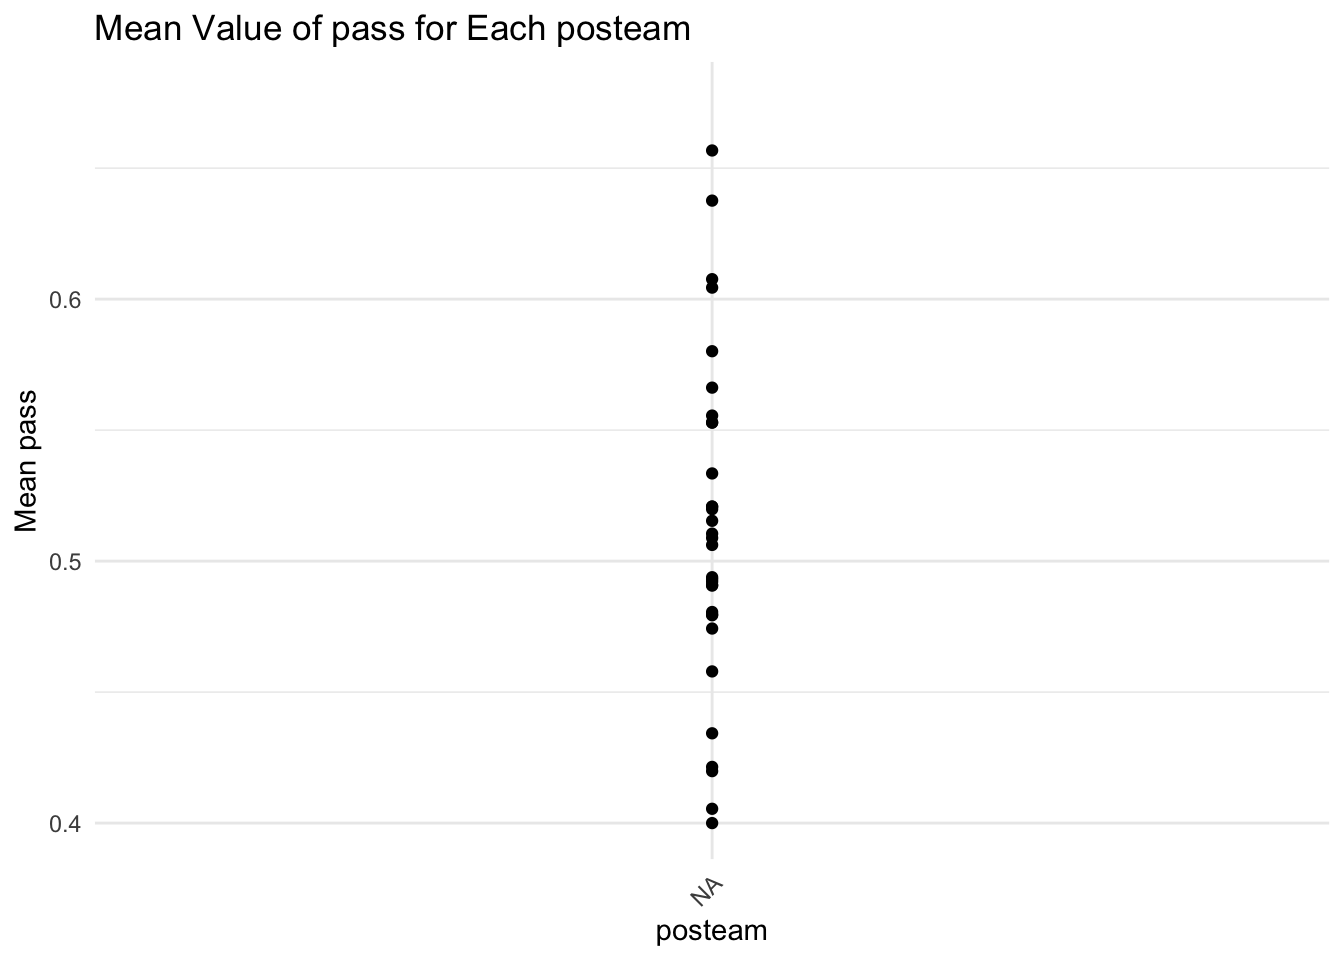
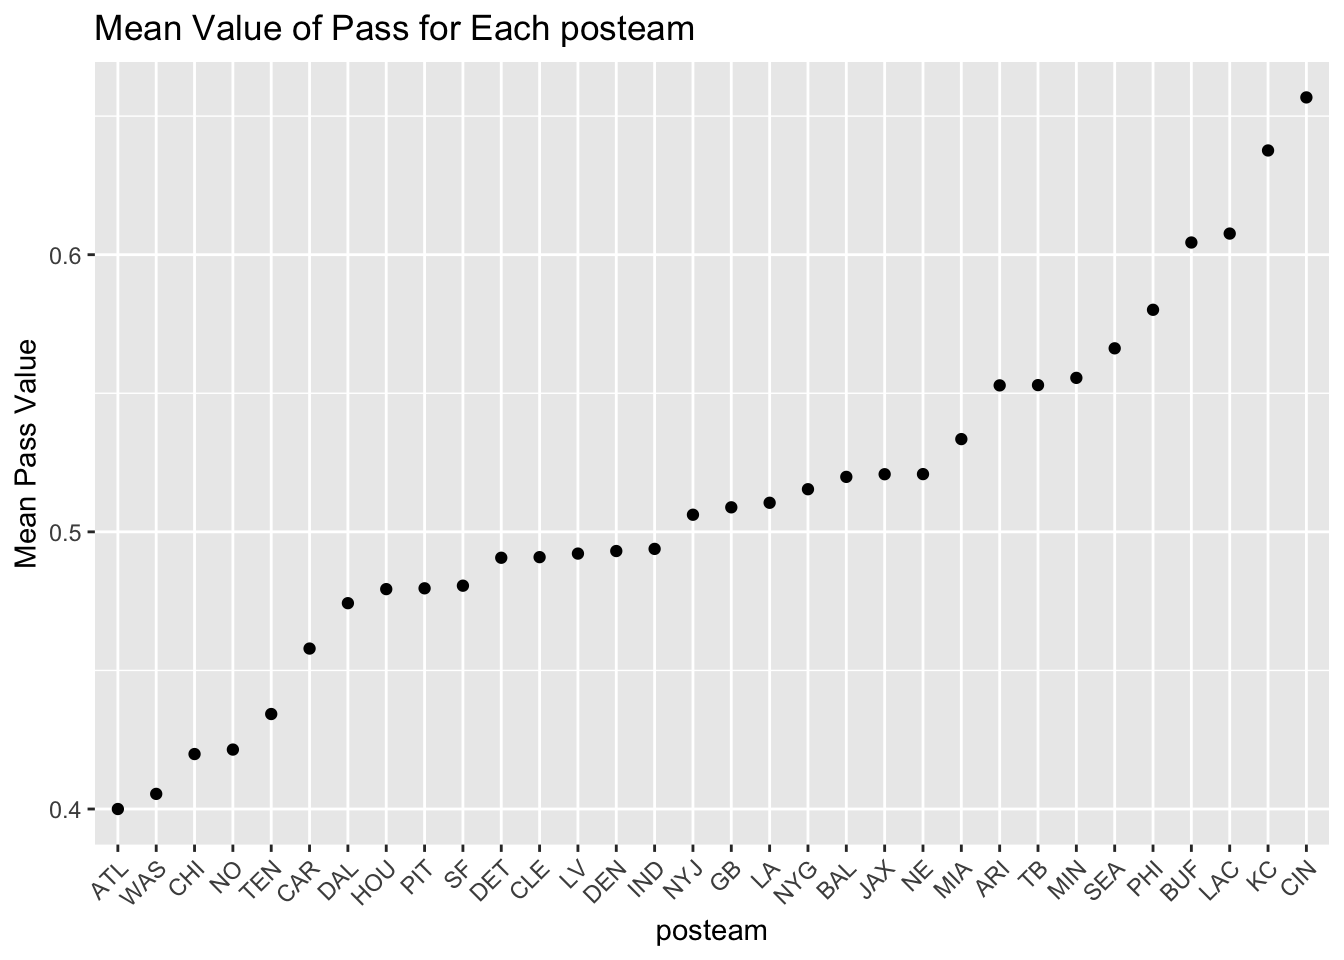
My Website

diff --git a/posts/NFL 2022 Data/index.html b/posts/NFL 2022 Data/index.html
@@ -268,25 +268,23 @@ Attaching package: 'dplyr'</code></pre>
 <p><em>Answer:</em></p>
 <div class="cell">
 <div class="sourceCode cell-code" id="cb8"><pre class="sourceCode r code-with-copy"><code class="sourceCode r"><span id="cb8-1"><a href="#cb8-1" aria-hidden="true" tabindex="-1"></a><span class="fu">library</span>(ggplot2)</span>
-<span id="cb8-2"><a href="#cb8-2" aria-hidden="true" tabindex="-1"></a><span class="co"># Load necessary libraries</span></span>
-<span id="cb8-3"><a href="#cb8-3" aria-hidden="true" tabindex="-1"></a><span class="fu">library</span>(ggplot2)</span>
-<span id="cb8-4"><a href="#cb8-4" aria-hidden="true" tabindex="-1"></a></span>
-<span id="cb8-5"><a href="#cb8-5" aria-hidden="true" tabindex="-1"></a></span>
-<span id="cb8-6"><a href="#cb8-6" aria-hidden="true" tabindex="-1"></a>summary_data <span class="ot">&lt;-</span> summary_data <span class="sc">%&gt;%</span></span>
-<span id="cb8-7"><a href="#cb8-7" aria-hidden="true" tabindex="-1"></a>  <span class="fu">mutate</span>(<span class="at">posteam =</span> <span class="fu">factor</span>(posteam, <span class="at">levels =</span> summary_data[<span class="fu">order</span>(mean_pass, <span class="at">decreasing =</span> <span class="cn">TRUE</span>), <span class="st">"posteam"</span>]))</span>
-<span id="cb8-8"><a href="#cb8-8" aria-hidden="true" tabindex="-1"></a></span>
-<span id="cb8-9"><a href="#cb8-9" aria-hidden="true" tabindex="-1"></a></span>
-<span id="cb8-10"><a href="#cb8-10" aria-hidden="true" tabindex="-1"></a><span class="fu">ggplot</span>(summary_data, <span class="fu">aes</span>(<span class="at">x =</span> posteam, <span class="at">y =</span> mean_pass, <span class="at">label =</span> posteam)) <span class="sc">+</span></span>
-<span id="cb8-11"><a href="#cb8-11" aria-hidden="true" tabindex="-1"></a>  <span class="fu">geom_point</span>() <span class="sc">+</span></span>
-<span id="cb8-12"><a href="#cb8-12" aria-hidden="true" tabindex="-1"></a>  <span class="fu">geom_text</span>(<span class="at">nudge_y =</span> <span class="fl">0.02</span>, <span class="at">size =</span> <span class="dv">3</span>, <span class="at">check_overlap =</span> <span class="cn">TRUE</span>) <span class="sc">+</span> </span>
-<span id="cb8-13"><a href="#cb8-13" aria-hidden="true" tabindex="-1"></a>  <span class="fu">labs</span>(<span class="at">title =</span> <span class="st">"Mean Value of pass for Each posteam"</span>,</span>
-<span id="cb8-14"><a href="#cb8-14" aria-hidden="true" tabindex="-1"></a>       <span class="at">x =</span> <span class="st">"posteam"</span>,</span>
-<span id="cb8-15"><a href="#cb8-15" aria-hidden="true" tabindex="-1"></a>       <span class="at">y =</span> <span class="st">"Mean pass"</span>) <span class="sc">+</span></span>
-<span id="cb8-16"><a href="#cb8-16" aria-hidden="true" tabindex="-1"></a>  <span class="fu">theme_minimal</span>() <span class="sc">+</span></span>
-<span id="cb8-17"><a href="#cb8-17" aria-hidden="true" tabindex="-1"></a>  <span class="fu">theme</span>(<span class="at">axis.text.x =</span> <span class="fu">element_text</span>(<span class="at">angle =</span> <span class="dv">45</span>, <span class="at">hjust =</span> <span class="dv">1</span>))</span></code><button title="Copy to Clipboard" class="code-copy-button"><i class="bi"></i></button></pre></div>
-<div class="cell-output cell-output-stderr">
-<pre><code>Warning: Removed 32 rows containing missing values (`geom_text()`).</code></pre>
-</div>
+<span id="cb8-2"><a href="#cb8-2" aria-hidden="true" tabindex="-1"></a>result <span class="ot">&lt;-</span> NFL2022_stuffs <span class="sc">%&gt;%</span></span>
+<span id="cb8-3"><a href="#cb8-3" aria-hidden="true" tabindex="-1"></a>  <span class="fu">filter</span>(</span>
+<span id="cb8-4"><a href="#cb8-4" aria-hidden="true" tabindex="-1"></a>    wp <span class="sc">&gt;</span> <span class="fl">0.2</span> <span class="sc">&amp;</span> wp <span class="sc">&lt;</span> <span class="fl">0.75</span>,</span>
+<span id="cb8-5"><a href="#cb8-5" aria-hidden="true" tabindex="-1"></a>    down <span class="sc">&lt;=</span> <span class="dv">2</span>,</span>
+<span id="cb8-6"><a href="#cb8-6" aria-hidden="true" tabindex="-1"></a>    half_seconds_remaining <span class="sc">&gt;</span> <span class="dv">120</span></span>
+<span id="cb8-7"><a href="#cb8-7" aria-hidden="true" tabindex="-1"></a>  ) <span class="sc">%&gt;%</span></span>
+<span id="cb8-8"><a href="#cb8-8" aria-hidden="true" tabindex="-1"></a>  <span class="fu">group_by</span>(posteam) <span class="sc">%&gt;%</span></span>
+<span id="cb8-9"><a href="#cb8-9" aria-hidden="true" tabindex="-1"></a>  <span class="fu">summarise</span>(<span class="at">mean_pass =</span> <span class="fu">mean</span>(pass, <span class="at">na.rm =</span> <span class="cn">TRUE</span>))</span>
+<span id="cb8-10"><a href="#cb8-10" aria-hidden="true" tabindex="-1"></a></span>
+<span id="cb8-11"><a href="#cb8-11" aria-hidden="true" tabindex="-1"></a>result<span class="sc">$</span>posteam <span class="ot">&lt;-</span> <span class="fu">factor</span>(result<span class="sc">$</span>posteam, <span class="at">levels =</span> result<span class="sc">$</span>posteam[<span class="fu">order</span>(result<span class="sc">$</span>mean_pass)])</span>
+<span id="cb8-12"><a href="#cb8-12" aria-hidden="true" tabindex="-1"></a></span>
+<span id="cb8-13"><a href="#cb8-13" aria-hidden="true" tabindex="-1"></a><span class="fu">ggplot</span>(result, <span class="fu">aes</span>(<span class="at">x =</span> posteam, <span class="at">y =</span> mean_pass)) <span class="sc">+</span></span>
+<span id="cb8-14"><a href="#cb8-14" aria-hidden="true" tabindex="-1"></a>  <span class="fu">geom_point</span>() <span class="sc">+</span></span>
+<span id="cb8-15"><a href="#cb8-15" aria-hidden="true" tabindex="-1"></a>  <span class="fu">labs</span>(<span class="at">title =</span> <span class="st">"Mean Value of Pass for Each posteam"</span>,</span>
+<span id="cb8-16"><a href="#cb8-16" aria-hidden="true" tabindex="-1"></a>       <span class="at">x =</span> <span class="st">"posteam"</span>,</span>
+<span id="cb8-17"><a href="#cb8-17" aria-hidden="true" tabindex="-1"></a>       <span class="at">y =</span> <span class="st">"Mean Pass Value"</span>) <span class="sc">+</span></span>
+<span id="cb8-18"><a href="#cb8-18" aria-hidden="true" tabindex="-1"></a>  <span class="fu">theme</span>(<span class="at">axis.text.x =</span> <span class="fu">element_text</span>(<span class="at">angle =</span> <span class="dv">45</span>, <span class="at">hjust =</span> <span class="dv">1</span>))</span></code><button title="Copy to Clipboard" class="code-copy-button"><i class="bi"></i></button></pre></div>
 <div class="cell-output-display">
 <p><img src="index_files/figure-html/unnamed-chunk-4-1.png" class="img-fluid" width="672"></p>
 </div>
@@ -306,14 +304,14 @@ Attaching package: 'dplyr'</code></pre>
 </ul>
 <p><em>Answer:</em></p>
 <div class="cell">
-<div class="sourceCode cell-code" id="cb10"><pre class="sourceCode r code-with-copy"><code class="sourceCode r"><span id="cb10-1"><a href="#cb10-1" aria-hidden="true" tabindex="-1"></a>NFL2022_epa <span class="ot">&lt;-</span> <span class="fu">read.csv</span>(<span class="st">'https://bcdanl.github.io/data/NFL2022_epa.csv'</span>)</span>
-<span id="cb10-2"><a href="#cb10-2" aria-hidden="true" tabindex="-1"></a></span>
-<span id="cb10-3"><a href="#cb10-3" aria-hidden="true" tabindex="-1"></a>NFL2022_stuffs_EPA <span class="ot">&lt;-</span> <span class="fu">left_join</span>(NFL2022_stuffs, NFL2022_epa, <span class="at">by =</span> <span class="fu">c</span>(<span class="st">"play_id"</span>, <span class="st">"game_id"</span>, <span class="st">"drive"</span>, <span class="st">"posteam"</span>))</span>
-<span id="cb10-4"><a href="#cb10-4" aria-hidden="true" tabindex="-1"></a></span>
-<span id="cb10-5"><a href="#cb10-5" aria-hidden="true" tabindex="-1"></a>NFL2022_stuffs_EPA <span class="ot">&lt;-</span> NFL2022_stuffs_EPA <span class="sc">%&gt;%</span></span>
-<span id="cb10-6"><a href="#cb10-6" aria-hidden="true" tabindex="-1"></a>  <span class="fu">filter</span>(<span class="sc">!</span><span class="fu">is.na</span>(passer))</span>
-<span id="cb10-7"><a href="#cb10-7" aria-hidden="true" tabindex="-1"></a></span>
-<span id="cb10-8"><a href="#cb10-8" aria-hidden="true" tabindex="-1"></a><span class="fu">head</span>(NFL2022_stuffs_EPA)</span></code><button title="Copy to Clipboard" class="code-copy-button"><i class="bi"></i></button></pre></div>
+<div class="sourceCode cell-code" id="cb9"><pre class="sourceCode r code-with-copy"><code class="sourceCode r"><span id="cb9-1"><a href="#cb9-1" aria-hidden="true" tabindex="-1"></a>NFL2022_epa <span class="ot">&lt;-</span> <span class="fu">read.csv</span>(<span class="st">'https://bcdanl.github.io/data/NFL2022_epa.csv'</span>)</span>
+<span id="cb9-2"><a href="#cb9-2" aria-hidden="true" tabindex="-1"></a></span>
+<span id="cb9-3"><a href="#cb9-3" aria-hidden="true" tabindex="-1"></a>NFL2022_stuffs_EPA <span class="ot">&lt;-</span> <span class="fu">left_join</span>(NFL2022_stuffs, NFL2022_epa, <span class="at">by =</span> <span class="fu">c</span>(<span class="st">"play_id"</span>, <span class="st">"game_id"</span>, <span class="st">"drive"</span>, <span class="st">"posteam"</span>))</span>
+<span id="cb9-4"><a href="#cb9-4" aria-hidden="true" tabindex="-1"></a></span>
+<span id="cb9-5"><a href="#cb9-5" aria-hidden="true" tabindex="-1"></a>NFL2022_stuffs_EPA <span class="ot">&lt;-</span> NFL2022_stuffs_EPA <span class="sc">%&gt;%</span></span>
+<span id="cb9-6"><a href="#cb9-6" aria-hidden="true" tabindex="-1"></a>  <span class="fu">filter</span>(<span class="sc">!</span><span class="fu">is.na</span>(passer))</span>
+<span id="cb9-7"><a href="#cb9-7" aria-hidden="true" tabindex="-1"></a></span>
+<span id="cb9-8"><a href="#cb9-8" aria-hidden="true" tabindex="-1"></a><span class="fu">head</span>(NFL2022_stuffs_EPA)</span></code><button title="Copy to Clipboard" class="code-copy-button"><i class="bi"></i></button></pre></div>
 <div class="cell-output cell-output-stdout">
 <pre><code>  play_id         game_id drive week posteam qtr down half_seconds_remaining
 1      89 2022_01_BAL_NYJ     1    1     NYJ   1    1                   1769
@@ -343,14 +341,14 @@ Attaching package: 'dplyr'</code></pre>
 </ol>
 <p><em>Answer:</em></p>
 <div class="cell">
-<div class="sourceCode cell-code" id="cb12"><pre class="sourceCode r code-with-copy"><code class="sourceCode r"><span id="cb12-1"><a href="#cb12-1" aria-hidden="true" tabindex="-1"></a><span class="fu">ggplot</span>(NFL2022_stuffs_EPA, <span class="fu">aes</span>(<span class="at">x =</span> week, <span class="at">y =</span> epa, <span class="at">color =</span> passer, <span class="at">linetype =</span> passer)) <span class="sc">+</span></span>
-<span id="cb12-2"><a href="#cb12-2" aria-hidden="true" tabindex="-1"></a>  <span class="fu">geom_line</span>(<span class="at">linewidth =</span> <span class="fl">1.2</span>) <span class="sc">+</span></span>
-<span id="cb12-3"><a href="#cb12-3" aria-hidden="true" tabindex="-1"></a>  <span class="fu">labs</span>(<span class="at">title =</span> <span class="st">"NFL Weekly Trend of Mean EPA for Passers"</span>,</span>
-<span id="cb12-4"><a href="#cb12-4" aria-hidden="true" tabindex="-1"></a>       <span class="at">x =</span> <span class="st">"Week"</span>,</span>
-<span id="cb12-5"><a href="#cb12-5" aria-hidden="true" tabindex="-1"></a>       <span class="at">y =</span> <span class="st">"Mean EPA"</span>) <span class="sc">+</span></span>
-<span id="cb12-6"><a href="#cb12-6" aria-hidden="true" tabindex="-1"></a>  <span class="fu">scale_color_manual</span>(<span class="at">values =</span> <span class="fu">c</span>(<span class="st">"J.Allen"</span> <span class="ot">=</span> <span class="st">"blue"</span>, <span class="st">"P.Mahomes"</span> <span class="ot">=</span> <span class="st">"red"</span>)) <span class="sc">+</span></span>
-<span id="cb12-7"><a href="#cb12-7" aria-hidden="true" tabindex="-1"></a>  <span class="fu">scale_linetype_manual</span>(<span class="at">values =</span> <span class="fu">c</span>(<span class="st">"J.Allen"</span> <span class="ot">=</span> <span class="st">"solid"</span>, <span class="st">"P.Mahomes"</span> <span class="ot">=</span> <span class="st">"dashed"</span>)) <span class="sc">+</span></span>
-<span id="cb12-8"><a href="#cb12-8" aria-hidden="true" tabindex="-1"></a>  <span class="fu">theme_minimal</span>()</span></code><button title="Copy to Clipboard" class="code-copy-button"><i class="bi"></i></button></pre></div>
+<div class="sourceCode cell-code" id="cb11"><pre class="sourceCode r code-with-copy"><code class="sourceCode r"><span id="cb11-1"><a href="#cb11-1" aria-hidden="true" tabindex="-1"></a><span class="fu">ggplot</span>(NFL2022_stuffs_EPA, <span class="fu">aes</span>(<span class="at">x =</span> week, <span class="at">y =</span> epa, <span class="at">color =</span> passer, <span class="at">linetype =</span> passer)) <span class="sc">+</span></span>
+<span id="cb11-2"><a href="#cb11-2" aria-hidden="true" tabindex="-1"></a>  <span class="fu">geom_line</span>(<span class="at">linewidth =</span> <span class="fl">1.2</span>) <span class="sc">+</span></span>
+<span id="cb11-3"><a href="#cb11-3" aria-hidden="true" tabindex="-1"></a>  <span class="fu">labs</span>(<span class="at">title =</span> <span class="st">"NFL Weekly Trend of Mean EPA for Passers"</span>,</span>
+<span id="cb11-4"><a href="#cb11-4" aria-hidden="true" tabindex="-1"></a>       <span class="at">x =</span> <span class="st">"Week"</span>,</span>
+<span id="cb11-5"><a href="#cb11-5" aria-hidden="true" tabindex="-1"></a>       <span class="at">y =</span> <span class="st">"Mean EPA"</span>) <span class="sc">+</span></span>
+<span id="cb11-6"><a href="#cb11-6" aria-hidden="true" tabindex="-1"></a>  <span class="fu">scale_color_manual</span>(<span class="at">values =</span> <span class="fu">c</span>(<span class="st">"J.Allen"</span> <span class="ot">=</span> <span class="st">"blue"</span>, <span class="st">"P.Mahomes"</span> <span class="ot">=</span> <span class="st">"red"</span>)) <span class="sc">+</span></span>
+<span id="cb11-7"><a href="#cb11-7" aria-hidden="true" tabindex="-1"></a>  <span class="fu">scale_linetype_manual</span>(<span class="at">values =</span> <span class="fu">c</span>(<span class="st">"J.Allen"</span> <span class="ot">=</span> <span class="st">"solid"</span>, <span class="st">"P.Mahomes"</span> <span class="ot">=</span> <span class="st">"dashed"</span>)) <span class="sc">+</span></span>
+<span id="cb11-8"><a href="#cb11-8" aria-hidden="true" tabindex="-1"></a>  <span class="fu">theme_minimal</span>()</span></code><button title="Copy to Clipboard" class="code-copy-button"><i class="bi"></i></button></pre></div>
 <div class="cell-output-display">
 <p><img src="index_files/figure-html/unnamed-chunk-6-1.png" class="img-fluid" width="672"></p>
 </div>
@@ -364,11 +362,11 @@ Attaching package: 'dplyr'</code></pre>
 </ul>
 <p><em>Answer:</em></p>
 <div class="cell">
-<div class="sourceCode cell-code" id="cb13"><pre class="sourceCode r code-with-copy"><code class="sourceCode r"><span id="cb13-1"><a href="#cb13-1" aria-hidden="true" tabindex="-1"></a>epa_difference <span class="ot">&lt;-</span> NFL2022_stuffs_EPA <span class="sc">%&gt;%</span></span>
-<span id="cb13-2"><a href="#cb13-2" aria-hidden="true" tabindex="-1"></a>  <span class="fu">group_by</span>(week) <span class="sc">%&gt;%</span></span>
-<span id="cb13-3"><a href="#cb13-3" aria-hidden="true" tabindex="-1"></a>  <span class="fu">summarise</span>(<span class="at">mean_epa_difference =</span> <span class="fu">mean</span>(epa[passer <span class="sc">==</span> <span class="st">"J.Allen"</span>]) <span class="sc">-</span> <span class="fu">mean</span>(epa[passer <span class="sc">==</span> <span class="st">"P.Mahomes"</span>]))</span>
-<span id="cb13-4"><a href="#cb13-4" aria-hidden="true" tabindex="-1"></a></span>
-<span id="cb13-5"><a href="#cb13-5" aria-hidden="true" tabindex="-1"></a><span class="fu">print</span>(epa_difference)</span></code><button title="Copy to Clipboard" class="code-copy-button"><i class="bi"></i></button></pre></div>
+<div class="sourceCode cell-code" id="cb12"><pre class="sourceCode r code-with-copy"><code class="sourceCode r"><span id="cb12-1"><a href="#cb12-1" aria-hidden="true" tabindex="-1"></a>epa_difference <span class="ot">&lt;-</span> NFL2022_stuffs_EPA <span class="sc">%&gt;%</span></span>
+<span id="cb12-2"><a href="#cb12-2" aria-hidden="true" tabindex="-1"></a>  <span class="fu">group_by</span>(week) <span class="sc">%&gt;%</span></span>
+<span id="cb12-3"><a href="#cb12-3" aria-hidden="true" tabindex="-1"></a>  <span class="fu">summarise</span>(<span class="at">mean_epa_difference =</span> <span class="fu">mean</span>(epa[passer <span class="sc">==</span> <span class="st">"J.Allen"</span>]) <span class="sc">-</span> <span class="fu">mean</span>(epa[passer <span class="sc">==</span> <span class="st">"P.Mahomes"</span>]))</span>
+<span id="cb12-4"><a href="#cb12-4" aria-hidden="true" tabindex="-1"></a></span>
+<span id="cb12-5"><a href="#cb12-5" aria-hidden="true" tabindex="-1"></a><span class="fu">print</span>(epa_difference)</span></code><button title="Copy to Clipboard" class="code-copy-button"><i class="bi"></i></button></pre></div>
 <div class="cell-output cell-output-stdout">
 <pre><code># A tibble: 22 × 2
     week mean_epa_difference
@@ -401,24 +399,24 @@ Attaching package: 'dplyr'</code></pre>
 </ul>
 <p><em>Answer:</em></p>
 <div class="cell">
-<div class="sourceCode cell-code" id="cb15"><pre class="sourceCode r code-with-copy"><code class="sourceCode r"><span id="cb15-1"><a href="#cb15-1" aria-hidden="true" tabindex="-1"></a>passer_summary <span class="ot">&lt;-</span> NFL2022_stuffs_EPA <span class="sc">%&gt;%</span></span>
-<span id="cb15-2"><a href="#cb15-2" aria-hidden="true" tabindex="-1"></a>  <span class="fu">group_by</span>(posteam, passer) <span class="sc">%&gt;%</span></span>
-<span id="cb15-3"><a href="#cb15-3" aria-hidden="true" tabindex="-1"></a>  <span class="fu">summarise</span>(</span>
-<span id="cb15-4"><a href="#cb15-4" aria-hidden="true" tabindex="-1"></a>    <span class="at">mean_epa =</span> <span class="fu">mean</span>(epa, <span class="at">na.rm =</span> <span class="cn">TRUE</span>),</span>
-<span id="cb15-5"><a href="#cb15-5" aria-hidden="true" tabindex="-1"></a>    <span class="at">n_pass =</span> <span class="fu">n</span>()</span>
-<span id="cb15-6"><a href="#cb15-6" aria-hidden="true" tabindex="-1"></a>  )</span></code><button title="Copy to Clipboard" class="code-copy-button"><i class="bi"></i></button></pre></div>
+<div class="sourceCode cell-code" id="cb14"><pre class="sourceCode r code-with-copy"><code class="sourceCode r"><span id="cb14-1"><a href="#cb14-1" aria-hidden="true" tabindex="-1"></a>passer_summary <span class="ot">&lt;-</span> NFL2022_stuffs_EPA <span class="sc">%&gt;%</span></span>
+<span id="cb14-2"><a href="#cb14-2" aria-hidden="true" tabindex="-1"></a>  <span class="fu">group_by</span>(posteam, passer) <span class="sc">%&gt;%</span></span>
+<span id="cb14-3"><a href="#cb14-3" aria-hidden="true" tabindex="-1"></a>  <span class="fu">summarise</span>(</span>
+<span id="cb14-4"><a href="#cb14-4" aria-hidden="true" tabindex="-1"></a>    <span class="at">mean_epa =</span> <span class="fu">mean</span>(epa, <span class="at">na.rm =</span> <span class="cn">TRUE</span>),</span>
+<span id="cb14-5"><a href="#cb14-5" aria-hidden="true" tabindex="-1"></a>    <span class="at">n_pass =</span> <span class="fu">n</span>()</span>
+<span id="cb14-6"><a href="#cb14-6" aria-hidden="true" tabindex="-1"></a>  )</span></code><button title="Copy to Clipboard" class="code-copy-button"><i class="bi"></i></button></pre></div>
 <div class="cell-output cell-output-stderr">
 <pre><code>`summarise()` has grouped output by 'posteam'. You can override using the
 `.groups` argument.</code></pre>
 </div>
-<div class="sourceCode cell-code" id="cb17"><pre class="sourceCode r code-with-copy"><code class="sourceCode r"><span id="cb17-1"><a href="#cb17-1" aria-hidden="true" tabindex="-1"></a>quantile_threshold <span class="ot">&lt;-</span> <span class="fu">quantile</span>(passer_summary<span class="sc">$</span>n_pass, <span class="fl">0.75</span>)</span>
-<span id="cb17-2"><a href="#cb17-2" aria-hidden="true" tabindex="-1"></a></span>
-<span id="cb17-3"><a href="#cb17-3" aria-hidden="true" tabindex="-1"></a>top_passers <span class="ot">&lt;-</span> passer_summary <span class="sc">%&gt;%</span></span>
-<span id="cb17-4"><a href="#cb17-4" aria-hidden="true" tabindex="-1"></a>  <span class="fu">filter</span>(n_pass <span class="sc">&gt;=</span> quantile_threshold) <span class="sc">%&gt;%</span></span>
-<span id="cb17-5"><a href="#cb17-5" aria-hidden="true" tabindex="-1"></a>  <span class="fu">arrange</span>(<span class="fu">desc</span>(mean_epa)) <span class="sc">%&gt;%</span></span>
-<span id="cb17-6"><a href="#cb17-6" aria-hidden="true" tabindex="-1"></a>  <span class="fu">slice_head</span>(<span class="at">n =</span> <span class="dv">10</span>)</span>
-<span id="cb17-7"><a href="#cb17-7" aria-hidden="true" tabindex="-1"></a></span>
-<span id="cb17-8"><a href="#cb17-8" aria-hidden="true" tabindex="-1"></a><span class="fu">print</span>(top_passers)</span></code><button title="Copy to Clipboard" class="code-copy-button"><i class="bi"></i></button></pre></div>
+<div class="sourceCode cell-code" id="cb16"><pre class="sourceCode r code-with-copy"><code class="sourceCode r"><span id="cb16-1"><a href="#cb16-1" aria-hidden="true" tabindex="-1"></a>quantile_threshold <span class="ot">&lt;-</span> <span class="fu">quantile</span>(passer_summary<span class="sc">$</span>n_pass, <span class="fl">0.75</span>)</span>
+<span id="cb16-2"><a href="#cb16-2" aria-hidden="true" tabindex="-1"></a></span>
+<span id="cb16-3"><a href="#cb16-3" aria-hidden="true" tabindex="-1"></a>top_passers <span class="ot">&lt;-</span> passer_summary <span class="sc">%&gt;%</span></span>
+<span id="cb16-4"><a href="#cb16-4" aria-hidden="true" tabindex="-1"></a>  <span class="fu">filter</span>(n_pass <span class="sc">&gt;=</span> quantile_threshold) <span class="sc">%&gt;%</span></span>
+<span id="cb16-5"><a href="#cb16-5" aria-hidden="true" tabindex="-1"></a>  <span class="fu">arrange</span>(<span class="fu">desc</span>(mean_epa)) <span class="sc">%&gt;%</span></span>
+<span id="cb16-6"><a href="#cb16-6" aria-hidden="true" tabindex="-1"></a>  <span class="fu">slice_head</span>(<span class="at">n =</span> <span class="dv">10</span>)</span>
+<span id="cb16-7"><a href="#cb16-7" aria-hidden="true" tabindex="-1"></a></span>
+<span id="cb16-8"><a href="#cb16-8" aria-hidden="true" tabindex="-1"></a><span class="fu">print</span>(top_passers)</span></code><button title="Copy to Clipboard" class="code-copy-button"><i class="bi"></i></button></pre></div>
 <div class="cell-output cell-output-stdout">
 <pre><code># A tibble: 29 × 4
 # Groups:   posteam [29]

diff --git a/blog-listing.html b/blog-listing.html
@@ -272,7 +272,7 @@ Ryan Horn
 </a>
 </div>
 </div>
-<div class="quarto-post image-right" data-index="3" data-categories="Sports" data-listing-date-sort="1702270800000" data-listing-file-modified-sort="1702406744328" data-listing-date-modified-sort="NaN" data-listing-reading-time-sort="4">
+<div class="quarto-post image-right" data-index="3" data-categories="Sports" data-listing-date-sort="1702270800000" data-listing-file-modified-sort="1702409648450" data-listing-date-modified-sort="NaN" data-listing-reading-time-sort="4">
 <div class="thumbnail">
 <p><a href="./posts/NFL 2022 Data/index.html"> <p class="card-img-top"><img src="posts/NFL 2022 Data/NFL image.png"  class="thumbnail-image card-img"/></p> </a></p>
 </div>
